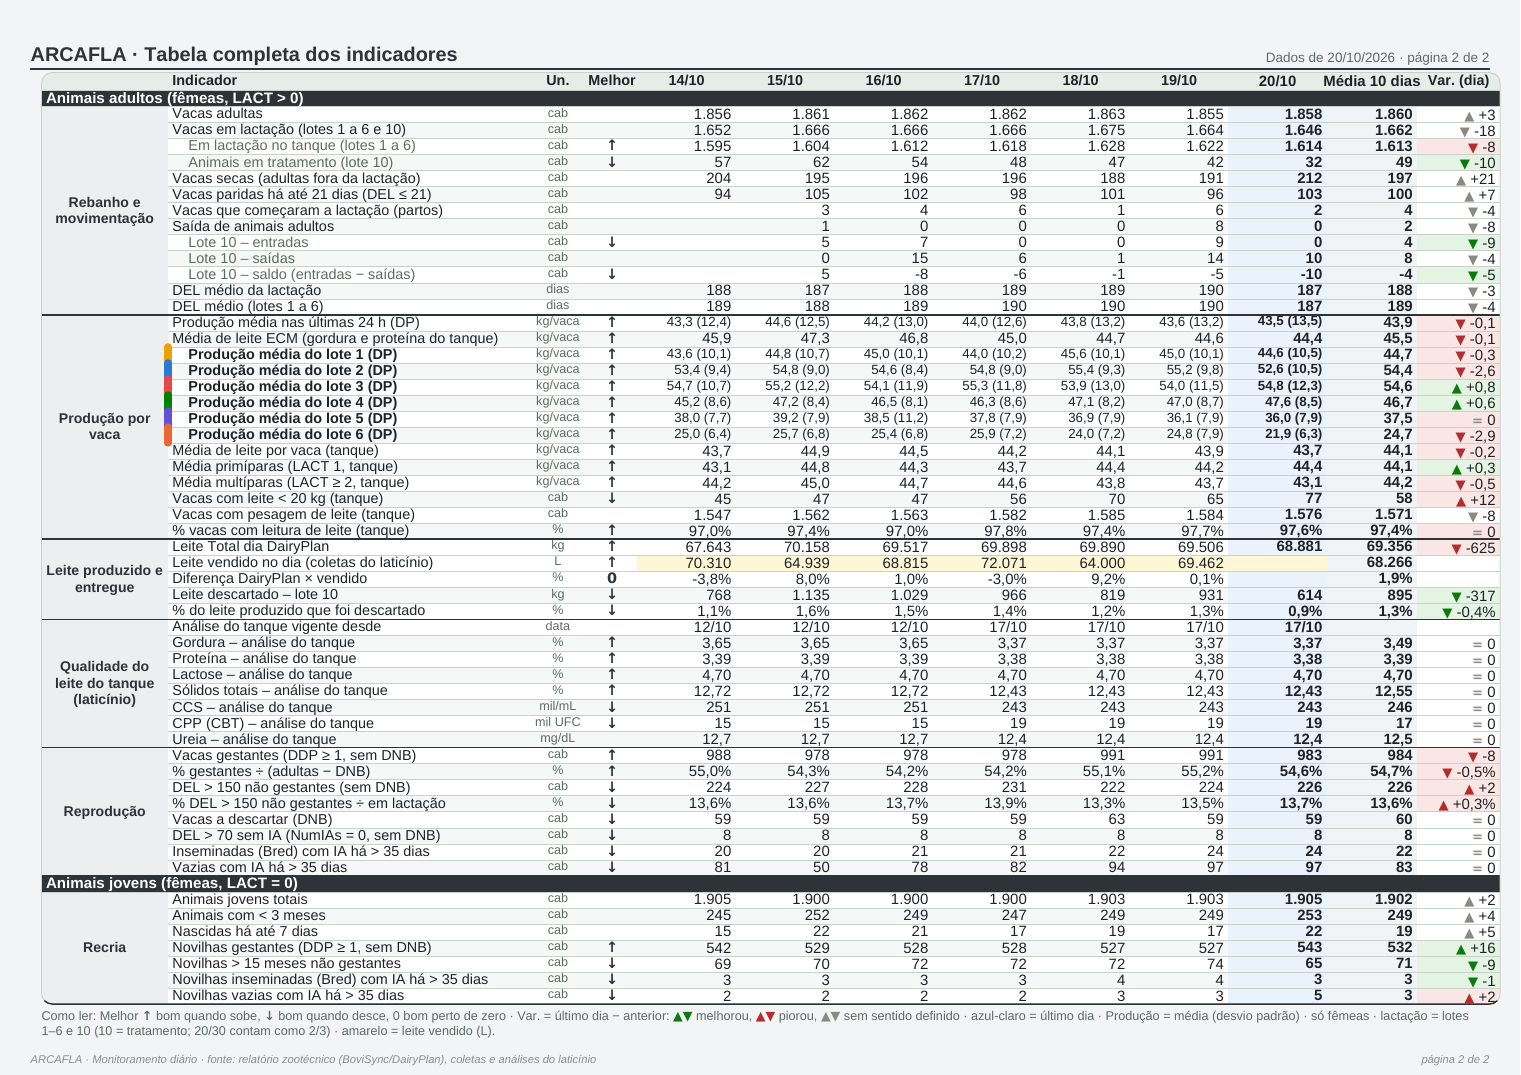
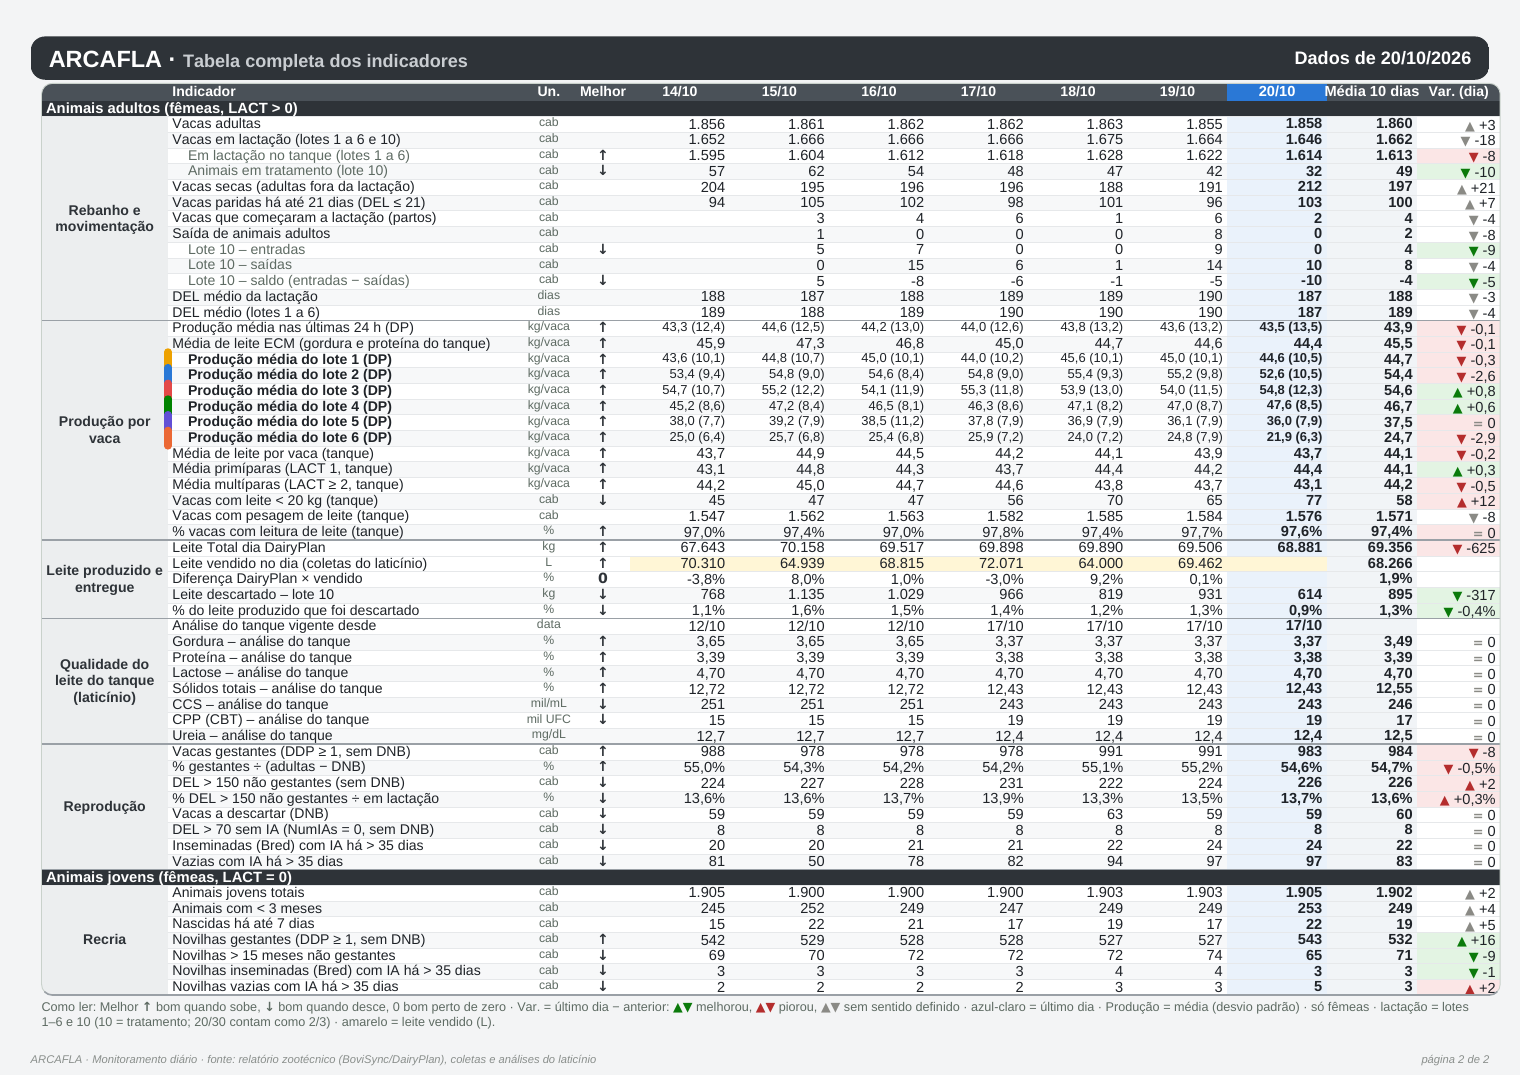
PDF ARCAFLA página 2: tabela ocupa toda a página, cabeçalho escuro arredondado; sem colunas novas
Claude-Session: https://claude.ai/code/session_01E6SmznsG4fwjxZt5rHRDBH

Changed region(s): [[0.0, 0.0307, 0.9888, 0.9823]]

diff --git a/scripts/monitor_pdf.py b/scripts/monitor_pdf.py
@@ -55,7 +55,7 @@ GRADE = colors.HexColor("#E4E7E5")
 LINHA = colors.HexColor("#C9D1CB")
 BORDA = colors.HexColor("#DADDE0")
 FUNDO_PAG = colors.HexColor("#F3F4F5")
-ZEBRA = colors.HexColor("#F6F8F7")
+ZEBRA = colors.HexColor("#F7F8F9")
 HOJE = colors.HexColor("#EAF2FB")
 MEDIA = colors.HexColor("#F1F4F7")
 INFILL = colors.HexColor("#FFF6D6")
@@ -519,13 +519,17 @@ for t in (linha1, linha2):
 
 
 # ---------------------------------------------------------------- página 2: tabela
+w_bl, w_un, w_mel, w_med, w_rot = 70, 30, 30, 50, 196
+w_var = 46 if vcol else 0
+
+
 cabec = (["", "Indicador", "Un.", "Melhor"] + [d.strftime("%d/%m") for d in dias]
          + ["Média 10 dias"] + (["Var. (dia)"] if vcol else []))
 NC = len(cabec)
 CDIA0, CMED = 4, 4 + ND
 CVAR = CMED + 1 if vcol else None
 n_linhas = 1 + sum(1 for l in linhas if l["tipo"] != "bloco")
-ALT = min(11, (ALTP - 20 - 22 - 10) / n_linhas)
+ALT = min(12, (ALTP - 27 - 28 - 8) / n_linhas)  # tabela ocupa toda a altura livre
 FS = min(8.4, ALT - 0.9)
 FSN = min(9.2, ALT - 0.6)  # números da tabela, maiores que os rótulos
 st_c = est("c", "Lib", FSN, TINTA, FSN + 0.2, 2)
@@ -533,15 +537,17 @@ dados = [cabec]
 estilo = [
     ("BACKGROUND", (0, 0), (-1, -1), colors.white), ("ROUNDEDCORNERS", [6, 6, 6, 6]),
     ("FONT", (0, 0), (-1, -1), "Lib", FS), ("TEXTCOLOR", (0, 0), (-1, -1), TINTA),
-    ("FONT", (0, 0), (-1, 0), "LibB", FS), ("BACKGROUND", (0, 0), (-1, 0), colors.HexColor("#E6ECE8")),
+    ("FONT", (0, 0), (-1, 0), "LibB", FS), ("BACKGROUND", (0, 0), (-1, 0), colors.HexColor("#4A5158")),
+    ("TEXTCOLOR", (0, 0), (-1, 0), colors.white),
     ("ALIGN", (2, 0), (-1, -1), "CENTER"), ("ALIGN", (CDIA0, 1), (-1, -1), "RIGHT"),
-    ("VALIGN", (0, 0), (-1, -1), "MIDDLE"), ("LINEBELOW", (0, 0), (-1, -1), 0.25, LINHA),
+    ("VALIGN", (0, 0), (-1, -1), "MIDDLE"), ("LINEBELOW", (0, 1), (-1, -1), 0.25, colors.HexColor("#E6E8EA")),
     ("BOX", (0, 0), (-1, -1), 0.5, LINHA),
     ("TOPPADDING", (0, 0), (-1, -1), 0), ("BOTTOMPADDING", (0, 0), (-1, -1), 1.4),
     ("LEFTPADDING", (0, 0), (-1, -1), 2.5), ("RIGHTPADDING", (0, 0), (-1, -1), 2.5),
     ("TEXTCOLOR", (2, 1), (2, -1), TINTA2), ("FONTSIZE", (2, 1), (2, -1), FS - 1),
     ("FONT", (3, 1), (3, -1), "Sym", FS), ("TEXTCOLOR", (3, 1), (3, -1), AZUL),
     ("BACKGROUND", (CDIA0 + ND - 1, 1), (CDIA0 + ND - 1, -1), HOJE),
+    ("BACKGROUND", (CDIA0 + ND - 1, 0), (CDIA0 + ND - 1, 0), colors.HexColor("#2A78D6")),
     ("BACKGROUND", (CMED, 1), (CMED, -1), MEDIA),
     ("FONTSIZE", (CDIA0, 1), (CMED, -1), FSN),
     ("FONT", (CDIA0 + ND - 1, 0), (CDIA0 + ND - 1, -1), "LibB", FSN), ("FONT", (CMED, 0), (CMED, -1), "LibB", FSN),
@@ -598,11 +604,9 @@ fecha_bloco(len(dados) - 1)
 for ini, fim, rot in blocos:
     dados[ini][0] = Paragraph(rot, st_bl)
     estilo += [("SPAN", (0, ini), (0, fim)), ("BACKGROUND", (0, ini), (0, fim), AZUL_CLARO),
-               ("LINEBELOW", (0, fim), (-1, fim), 0.8, AZUL)]
+               ("LINEBELOW", (0, fim), (-1, fim), 0.9, colors.HexColor("#9AA0A6"))]
 
-w_bl, w_un, w_mel, w_med, w_rot = 70, 32, 28, 50, 200
-w_var = 46 if vcol else 0
-w_dia = min((LARG - w_bl - w_rot - w_un - w_mel - w_med - w_var) / ND, 60)
+w_dia = (LARG - w_bl - w_rot - w_un - w_mel - w_med - w_var) / ND  # tabela na largura toda da página
 tab = Table(dados, colWidths=[w_bl, w_rot, w_un, w_mel] + [w_dia] * ND + [w_med] + ([w_var] if vcol else []),
             rowHeights=[ALT + 1] + [ALT] * (len(dados) - 1))
 tab.setStyle(TableStyle(estilo))
@@ -631,12 +635,14 @@ def cabecalho_p1():
 
 
 def cabecalho_p2():
-    t = Table([[Paragraph("ARCAFLA · Tabela completa dos indicadores", st_t2),
-                Paragraph(f"Dados de <b>{ultimo:%d/%m/%Y}</b> · página 2 de 2", st_d2)]],
-              colWidths=[LARG * 0.6, LARG * 0.4])
-    t.setStyle(TableStyle([("LEFTPADDING", (0, 0), (-1, -1), 0), ("RIGHTPADDING", (0, 0), (-1, -1), 0),
-                           ("VALIGN", (0, 0), (-1, -1), "BOTTOM"), ("BOTTOMPADDING", (0, 0), (-1, -1), 2),
-                           ("LINEBELOW", (0, 0), (-1, 0), 1.2, AZUL)]))
+    t = Table([[Paragraph("ARCAFLA · <font size=10 color='#C9CDD1'>Tabela completa dos indicadores</font>",
+                          est("t2b", "LibB", 13, colors.white, 15)),
+                Paragraph(f"Dados de {ultimo:%d/%m/%Y}", est("d2b", "LibB", 10, colors.white, 12, 2))]],
+              colWidths=[LARG * 0.65, LARG * 0.35])
+    t.setStyle(TableStyle([("BACKGROUND", (0, 0), (-1, -1), AZUL), ("ROUNDEDCORNERS", [8, 8, 8, 8]),
+                           ("LEFTPADDING", (0, 0), (-1, -1), 10), ("RIGHTPADDING", (0, 0), (-1, -1), 10),
+                           ("TOPPADDING", (0, 0), (-1, -1), 4), ("BOTTOMPADDING", (0, 0), (-1, -1), 5),
+                           ("VALIGN", (0, 0), (-1, -1), "MIDDLE")]))
     return t
 
 
